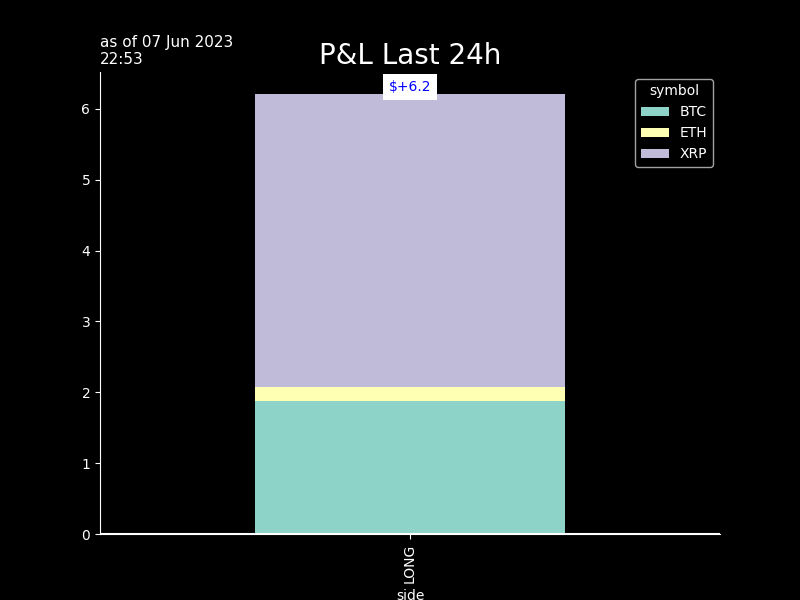
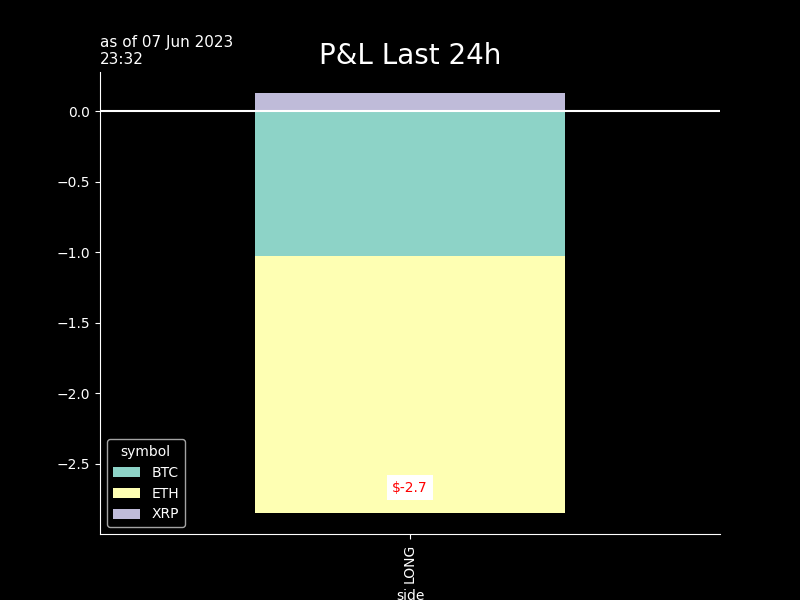
seb_commit

diff --git a/crypto/graphs/bt_trades_book.htmltrade_trades_book.html b/crypto/graphs/bt_trades_book.htmltrade_trades_book.html
@@ -37,55 +37,55 @@
   </thead>
   <tbody>
     <tr>
-      <th>BTCUSDT</th>
-      <td>26474.6000</td>
-      <td>2023-06-07 18:33:51</td>
-      <td>0.006</td>
-      <td>$158.8</td>
+      <th>XRPUSDT</th>
+      <td>0.5158</td>
+      <td>2023-06-07 22:31:43</td>
+      <td>-408.700</td>
+      <td>$-210.8</td>
       <td>$0.03</td>
       <td>1.6</td>
-      <td>0.0</td>
-      <td>26479.25000</td>
-      <td>2023-06-07 19:32</td>
-      <td>0.0</td>
-      <td>2.0</td>
-      <td>26476.9</td>
-      <td>0.0</td>
-      <td>1.0</td>
+      <td>0.1</td>
+      <td>0.51545</td>
+      <td>2023-06-07 23:31</td>
+      <td>0.1</td>
+      <td>7.0</td>
+      <td>.5161</td>
+      <td>-0.1</td>
+      <td>-6.0</td>
     </tr>
     <tr>
-      <th>ETHUSDT</th>
-      <td>1849.9100</td>
-      <td>2023-06-07 18:33:46</td>
-      <td>0.091</td>
-      <td>$168.3</td>
+      <th>BTCUSDT</th>
+      <td>26302.6000</td>
+      <td>2023-06-07 22:31:43</td>
+      <td>-0.008</td>
+      <td>$-210.4</td>
       <td>$0.03</td>
       <td>1.6</td>
+      <td>-1.0</td>
+      <td>26297.15000</td>
+      <td>2023-06-07 23:31</td>
       <td>0.0</td>
-      <td>1850.75500</td>
-      <td>2023-06-07 19:32</td>
-      <td>0.1</td>
-      <td>5.0</td>
-      <td>1849.83</td>
+      <td>2.0</td>
+      <td>26305.5</td>
       <td>-0.0</td>
       <td>-1.0</td>
     </tr>
     <tr>
-      <th>XRPUSDT</th>
-      <td>0.5154</td>
-      <td>2023-06-07 18:35:28</td>
-      <td>327.200</td>
-      <td>$168.6</td>
+      <th>ETHUSDT</th>
+      <td>1829.9500</td>
+      <td>2023-06-07 22:31:42</td>
+      <td>-0.091</td>
+      <td>$-166.5</td>
       <td>$0.03</td>
       <td>1.6</td>
-      <td>0.0</td>
-      <td>0.51445</td>
-      <td>2023-06-07 19:32</td>
-      <td>-0.3</td>
-      <td>-18.0</td>
-      <td>.5152</td>
-      <td>-0.1</td>
-      <td>-4.0</td>
+      <td>-1.8</td>
+      <td>1829.11500</td>
+      <td>2023-06-07 23:31</td>
+      <td>0.1</td>
+      <td>5.0</td>
+      <td>1830.29</td>
+      <td>-0.0</td>
+      <td>-2.0</td>
     </tr>
   </tbody>
 </table>

diff --git a/crypto/graphs/bt_trades_pnlD_recap.htmltrade_trades_pnlD_recap.html b/crypto/graphs/bt_trades_pnlD_recap.htmltrade_trades_pnlD_recap.html
@@ -1,7 +1,7 @@
 <table border="1" class="dataframe">
   <thead>
     <tr style="text-align: right;">
-      <th>07 Jun 19:35</th>
+      <th>07 Jun 23:31</th>
       <th>realizedPnl</th>
       <th>PnLvsArrival</th>
       <th>PnLvsLast</th>
@@ -10,21 +10,21 @@
   <tbody>
     <tr>
       <th>in$</th>
-      <td>0.0</td>
+      <td>-2.7</td>
+      <td>0.3</td>
       <td>-0.2</td>
-      <td>-0.1</td>
     </tr>
     <tr>
-      <th>in bp 495 traded</th>
-      <td>0 bp</td>
-      <td>-4 bp</td>
-      <td>-1 bp</td>
+      <th>in bp 587 traded</th>
+      <td>-46 bp</td>
+      <td>4 bp</td>
+      <td>-3 bp</td>
     </tr>
     <tr>
-      <th>in bp 336 AUMs</th>
-      <td>0 bp</td>
-      <td>-6 bp</td>
-      <td>-2 bp</td>
+      <th>in bp 333 AUMs</th>
+      <td>-82 bp</td>
+      <td>8 bp</td>
+      <td>-5 bp</td>
     </tr>
   </tbody>
 </table>

diff --git a/crypto/graphs/bt_trades_recap.htmltrade_trades_recap.html b/crypto/graphs/bt_trades_recap.htmltrade_trades_recap.html
@@ -9,32 +9,32 @@
   <tbody>
     <tr>
       <th>as of</th>
-      <td>07Jun 18:33&gt;&gt;18:35</td>
+      <td>07Jun 22:31&gt;&gt;22:31</td>
       <td>#trades: 3</td>
     </tr>
     <tr>
       <th>trade net</th>
-      <td>+496.0</td>
-      <td>+147.4%</td>
+      <td>-588.0</td>
+      <td>-176.4%</td>
     </tr>
     <tr>
       <th>trade gross</th>
-      <td>+496.0</td>
-      <td>+147.4%</td>
+      <td>+588.0</td>
+      <td>+176.4%</td>
     </tr>
     <tr>
       <th>BUY</th>
-      <td>+496.0</td>
-      <td>+147.4%</td>
-    </tr>
-    <tr>
-      <th>SELL</th>
       <td>+0.0</td>
       <td>+0.0%</td>
     </tr>
     <tr>
+      <th>SELL</th>
+      <td>-588.0</td>
+      <td>-176.4%</td>
+    </tr>
+    <tr>
       <th>fees</th>
-      <td>$ 0.079</td>
+      <td>$ 0.094</td>
       <td>1.6bp</td>
     </tr>
   </tbody>
